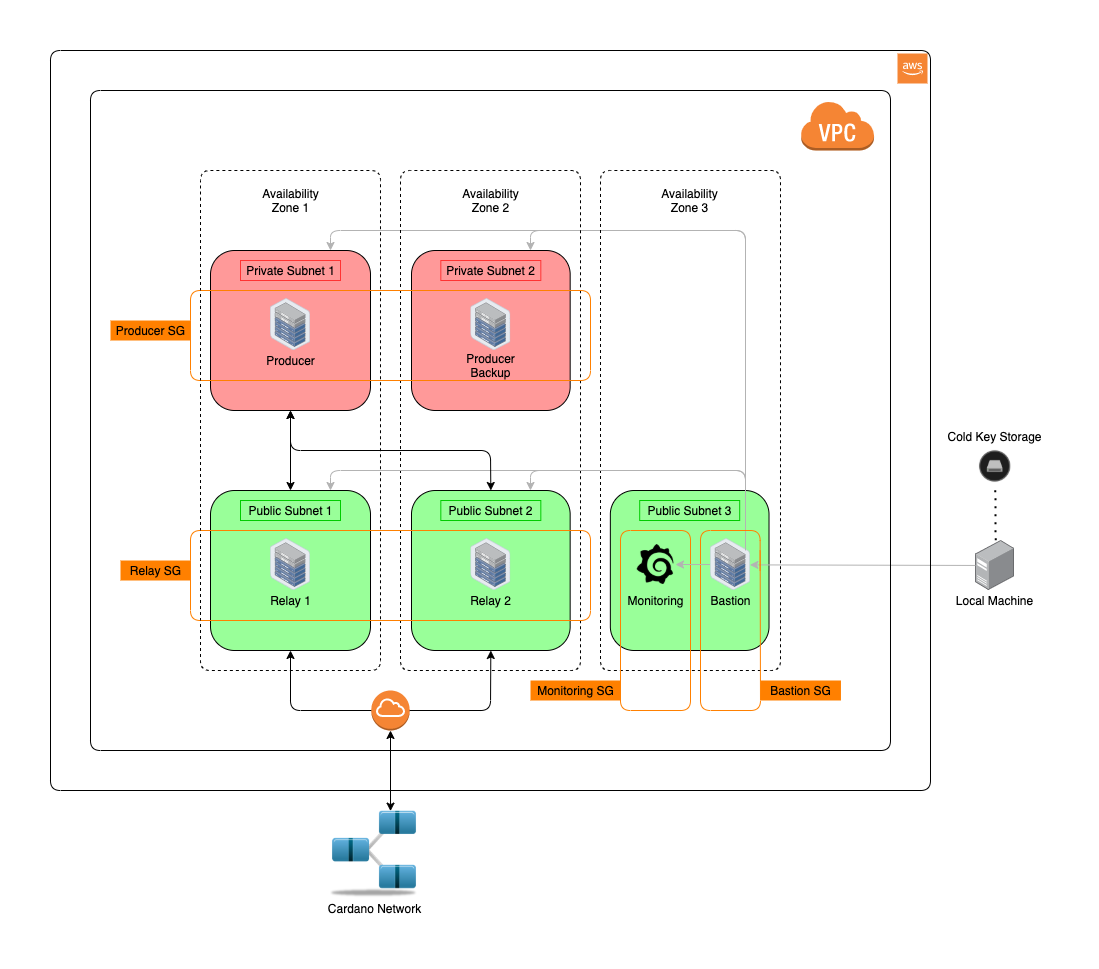
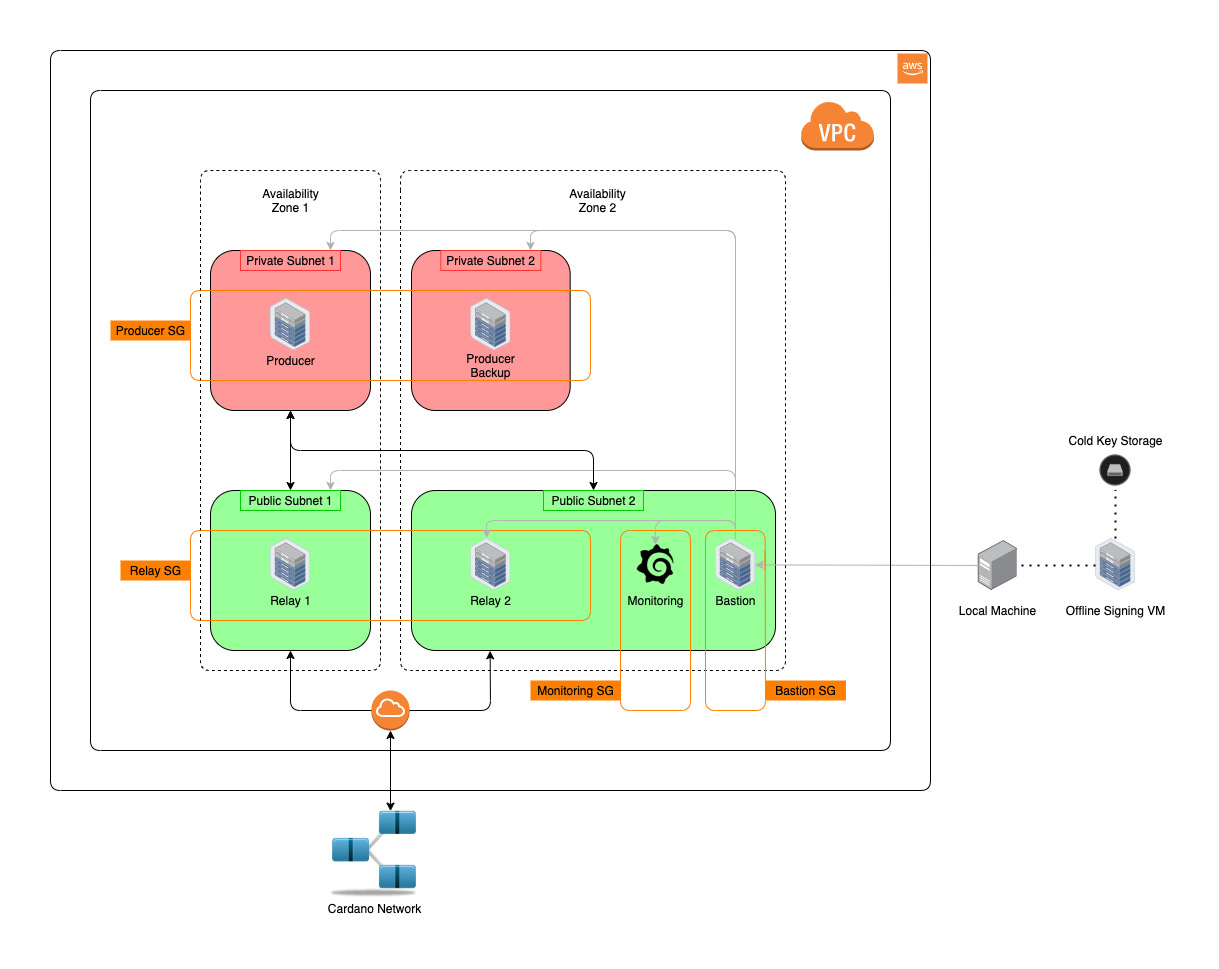
finalizing initial site for launch

diff --git a/index.html b/index.html
@@ -39,43 +39,25 @@
         <section class="wrapper">
             <div class="inner">
                 <header class="special">
-                    <h2>Why choose us?</h2>
+                    <h1>Why choose us?</h1>
                 </header>
                 <div class="highlights">
                     <section>
                         <div class="content">
                             <header>
                                 <a class="icon fa-lock"><span class="label">Icon</span></a>
-                                <h3>Security</h3>
+                                <h3>Secure</h3>
                             </header>
-                            <p>We follow <b>all</b> best practies<br>as outlined by the<br><a href="https://ccspa.ca/best-practices/" target="_blanc">Canadian Cardano Stake Pool Association</a>.</p>
+                            <p>We follow <b>best practices</b><br>as outlined by the<br><a href="https://ccspa.ca/best-practices/" target="_blanc">Canadian Cardano<br>Stake Pool Association</a>.</p>
                         </div>
                     </section>
                     <section>
                         <div class="content">
                             <header>
                                 <a class="icon fa-server"><span class="label">Icon</span></a>
-                                <h3>Reliability</h3>
+                                <h3>Reliable</h3>
                             </header>
-                            <p><b>99.999%</b> uptime through AWS enterprize level server <a href="infrastructure.html" target="_blanc">infrastructure</a>. </p>
-                        </div>
-                    </section>
-                    <section>
-                        <div class="content">
-                            <header>
-                                <a class="icon fa-tree"><span class="label">Icon</span></a>
-                                <h3>Planting Trees</h3>
-                            </header>
-                            <p>We plant <b>10 trees</b> for <b>every block</b> we mint through our non-profit partner<br><a href="https://onetreeplanted.org/pages/about-us" target="_blanc">OneTreePlanted</a>.</p>
-                        </div>
-                    </section>
-                    <section>
-                        <div class="content">
-                            <header>
-                                <a class="icon fa-money"><span class="label">Icon</span></a>
-                                <h3>Low Fees</h3>
-                            </header>
-                            <p></p><b>1%</b> variable fee <br>to maximize your staking rewards.</p>
+                            <p><b>99.99% uptime</b><br>through AWS enterprize level <br><a href="infrastructure.html" target="_blanc">server infrastructure</a>.</p>
                         </div>
                     </section>
                     <section>
@@ -84,18 +66,51 @@
                                 <a class="icon fa-check"><span class="label">Icon</span></a>
                                 <h3>Testnet Proven</h3>
                             </header>
-                            <p><b>100+ blocks minted</b> on Cardano's <br><a href="https://testnet.adatools.io/pools/ea688bb3789f7327a9ee781207bdf588fd2d2daf03c58f4e73ebb4e5" target="_blanc">Testnet Environment</a>.</p>
+                            <p><b>500+ blocks minted</b><br>on Cardano's Testnet Environment.</p>
+                        </div>
+                    </section>
+                    <section>
+                        <div class="content">
+                            <header>
+                                <a class="icon fa-tree"><span class="label">Icon</span></a>
+                                <h3>Planting Trees</h3>
+                            </header>
+                            <p>We plant <b>10 trees</b><br>for every block we mint through our non-profit partner<br><a href="https://onetreeplanted.org/pages/about-us" target="_blanc">OneTreePlanted</a>.</p>
+                        </div>
+                    </section>
+                    <section>
+                        <div class="content">
+                            <header>
+                                <a class="icon fa-percent"><span class="label">Icon</span></a>
+                                <h3>Competitive Fees</h3>
+                            </header>
+                            <p></p><b>3% variable fee</b> <br>to maximize staking rewards while allowing us to maintain our robust infrastrucure.</p>
                         </div>
                     </section>
                     <section>
                         <div class="content">
                             <header>
                                 <a class="icon fa-envelope"><span class="label">Icon</span></a>
-                                <h3>Reach Out</h3>
+                                <h3>Reachable</h3>
                             </header>
-                            <p>If you have any quesitons, do not hesitate to reach out to us on<br><a href="https://twitter.com/SproutPool" target="_blanc">Twitter</a> or via <a href="mailto:sproutpool@gmail.com">Email</a>.</p>
+                            <p>If you have any quesitons,<br>do not hesitate to reach out to us on<br><a href="https://twitter.com/SproutPool" target="_blanc">Twitter</a> or via <a href="mailto:sproutpool@gmail.com">Email</a>.</p>
                         </div>
                     </section>
+                </div>
+            </div>
+        </section>
+
+        <section id="main">
+            <div class="inner">
+                <div class="content">
+                    <h2>Pool Info</h2>
+                    <ul>
+                        <li>Pledge: ₳ 30,000</li>
+                        <li>Base Fee: 340</li>
+                        <li>Variable Fee: 3%</li>
+                        <li>Location: Canada</li>
+                        <li>Pool Stats: <a href="https://pooltool.io" target="_blanc">PoolTool.io</a></li>
+                    </ul>
                 </div>
             </div>
         </section>
@@ -103,7 +118,7 @@
         <!-- How to stake -->
         <section id="main" class="wrapper">
             <header class="special">
-                <h2>How to Stake</h2>
+                <h1>How to Stake</h1>
             </header>
             <div class="inner">
                 <div class="content">

diff --git a/infrastructure.html b/infrastructure.html
@@ -37,65 +37,15 @@
                     <h3>Description</h3>
                     <p>Our infrastructure is set up in a way to provide a high level of redundancy and maximum security. Here are some <b>key features</b> of our setup:</p>
                     <ul>
-                        <li><b>2 availability zones for nodes:</b> If Amazon experiences issues with one, we can easily leverage the other and continue producing blocks.</li>
-                        <li><b>Backup producer:</b> In case there are ANY issues with the main producer node, we can easily switch over to our backup producer.</li>
-                        <li><b>Highly specific security groups:</b> Security groups limiting inbound traffic to only to the necessary connections.</li>
-                        <li><b>Bastion host:</b> There to act as a proxy server to protect our servers from any sort of cyber attacks.</li>
+                        <li><b>Bastion Host:</b> To protect nodes from brute-force attacks.</li>
+                        <li><b>2 Availability Zones:</b> Redundancy in case of availability zone outtages.</li>
+                        <li><b>Backup Producer:</b> In case there is an issue with them main producer node.</li>
+                        <li><b>Highly Specific Security Groups:</b> Limiting inbound traffic to only to the necessary connections.</li>
+                        <li><b>Offline VM:</b> All keys are created in an offline VM (Virtual Machine) and stored on an offline device.</li>
                     </ul>
                 </div>
             </div>
         </section>
-		<!-- 
-			<section class="wrapper">
-				<div class="inner">
-					<header class="special">
-						<h2>Faucibus consequat lorem</h2>
-						<p>In arcu accumsan arcu adipiscing accumsan orci ac. Felis id enim aliquet. Accumsan ac integer lobortis commodo ornare aliquet accumsan erat tempus amet porttitor.</p>
-					</header>
-					<div class="testimonials">
-						<section>
-							<div class="content">
-								<blockquote>
-									<p>Nunc lacinia ante nunc ac lobortis ipsum. Interdum adipiscing gravida odio porttitor sem non mi integer non faucibus.</p>
-								</blockquote>
-								<div class="author">
-									<div class="image">
-										<img src="images/pic01.jpg" alt="" />
-									</div>
-									<p class="credit">- <strong>Jane Doe</strong> <span>CEO - ABC Inc.</span></p>
-								</div>
-							</div>
-						</section>
-						<section>
-							<div class="content">
-								<blockquote>
-									<p>Nunc lacinia ante nunc ac lobortis ipsum. Interdum adipiscing gravida odio porttitor sem non mi integer non faucibus.</p>
-								</blockquote>
-								<div class="author">
-									<div class="image">
-										<img src="images/pic03.jpg" alt="" />
-									</div>
-									<p class="credit">- <strong>John Doe</strong> <span>CEO - ABC Inc.</span></p>
-								</div>
-							</div>
-						</section>
-						<section>
-							<div class="content">
-								<blockquote>
-									<p>Nunc lacinia ante nunc ac lobortis ipsum. Interdum adipiscing gravida odio porttitor sem non mi integer non faucibus.</p>
-								</blockquote>
-								<div class="author">
-									<div class="image">
-										<img src="images/pic02.jpg" alt="" />
-									</div>
-									<p class="credit">- <strong>Janet Smith</strong> <span>CEO - ABC Inc.</span></p>
-								</div>
-							</div>
-						</section>
-					</div>
-				</div>
-			</section>
-        -->
 
 		<!-- Footer -->
 			<footer id="footer">

diff --git a/about.html b/about.html
@@ -32,8 +32,10 @@
             </header>
             <div class="inner">
                 <div class="content">
-                    <h4>Background</h4>
-                    <p>Born in Germany, I moved to Vancouver BC in 2009 with my parents. Both of my older brothers stayed back in Germany. After completing my high school diploma, I went on to studying Engineering (it was what I thought I was going to end up doing). I completed 2 terms, and realized that it was not the path for me. After a few more attemts at different fields of study, I started to find interest in web development. I ended up applying to a program called Digital Design and Development, graduated in 2018 and started working for Convertus Digital in mid 2018, where I currently work as a back end Development Specialist.</p>
+                    <h3>Background</h3>
+                    <img src="./images/profile_picture.jpg" alt="profile_picture" class="centered"/>
+                    <p>My name is Alessandro. I was born in Hanau, Germany in 1992 and moved to Vancouver BC in 2009 with my parents. I have 2 older brothers, one of whom still lives in Germany, the other just recently moved to Vancouver as well.</p>
+                    <p>After completing my high school diploma, I went on to studying Engineering (it was what I thought I was going to end up doing). I completed 2 terms, and realized that it was not the path for me. After a few more attemts at different fields of study, I started to find interest in web development. I ended up applying to a program called Digital Design and Development, graduated in 2018 and started working for Convertus Digital in mid 2018, where I currently work as a back end Development Specialist.</p>
                     <p>I started to get interested in crypto currency in late 2018 and decided to invest some of my hard earned cash during the market crash in March 2019. Cardano is a project that I am extremely excite about. Their maticilous attention to detail is what drew me into the project and seeing things starting to fall into place has me super thrilled for what's to come in the future and why I decided to start my own stake pool.</p>
                     <h4>Qualifications</h4>
                     <ul>

diff --git a/assets/css/main.css b/assets/css/main.css
@@ -88,6 +88,17 @@ input, select, textarea {
   -ms-appearance: none;
   appearance: none; }
 
+.centered {
+    display: block;
+    margin-left: auto;
+    margin-right: auto;
+    margin-top: 50px;
+    margin-bottom: 50px;
+    width: 50%;
+    min-width: 250px;
+    max-width: 500px;
+}
+
 /* Typography */
 html {
   font-size: 13pt; }
